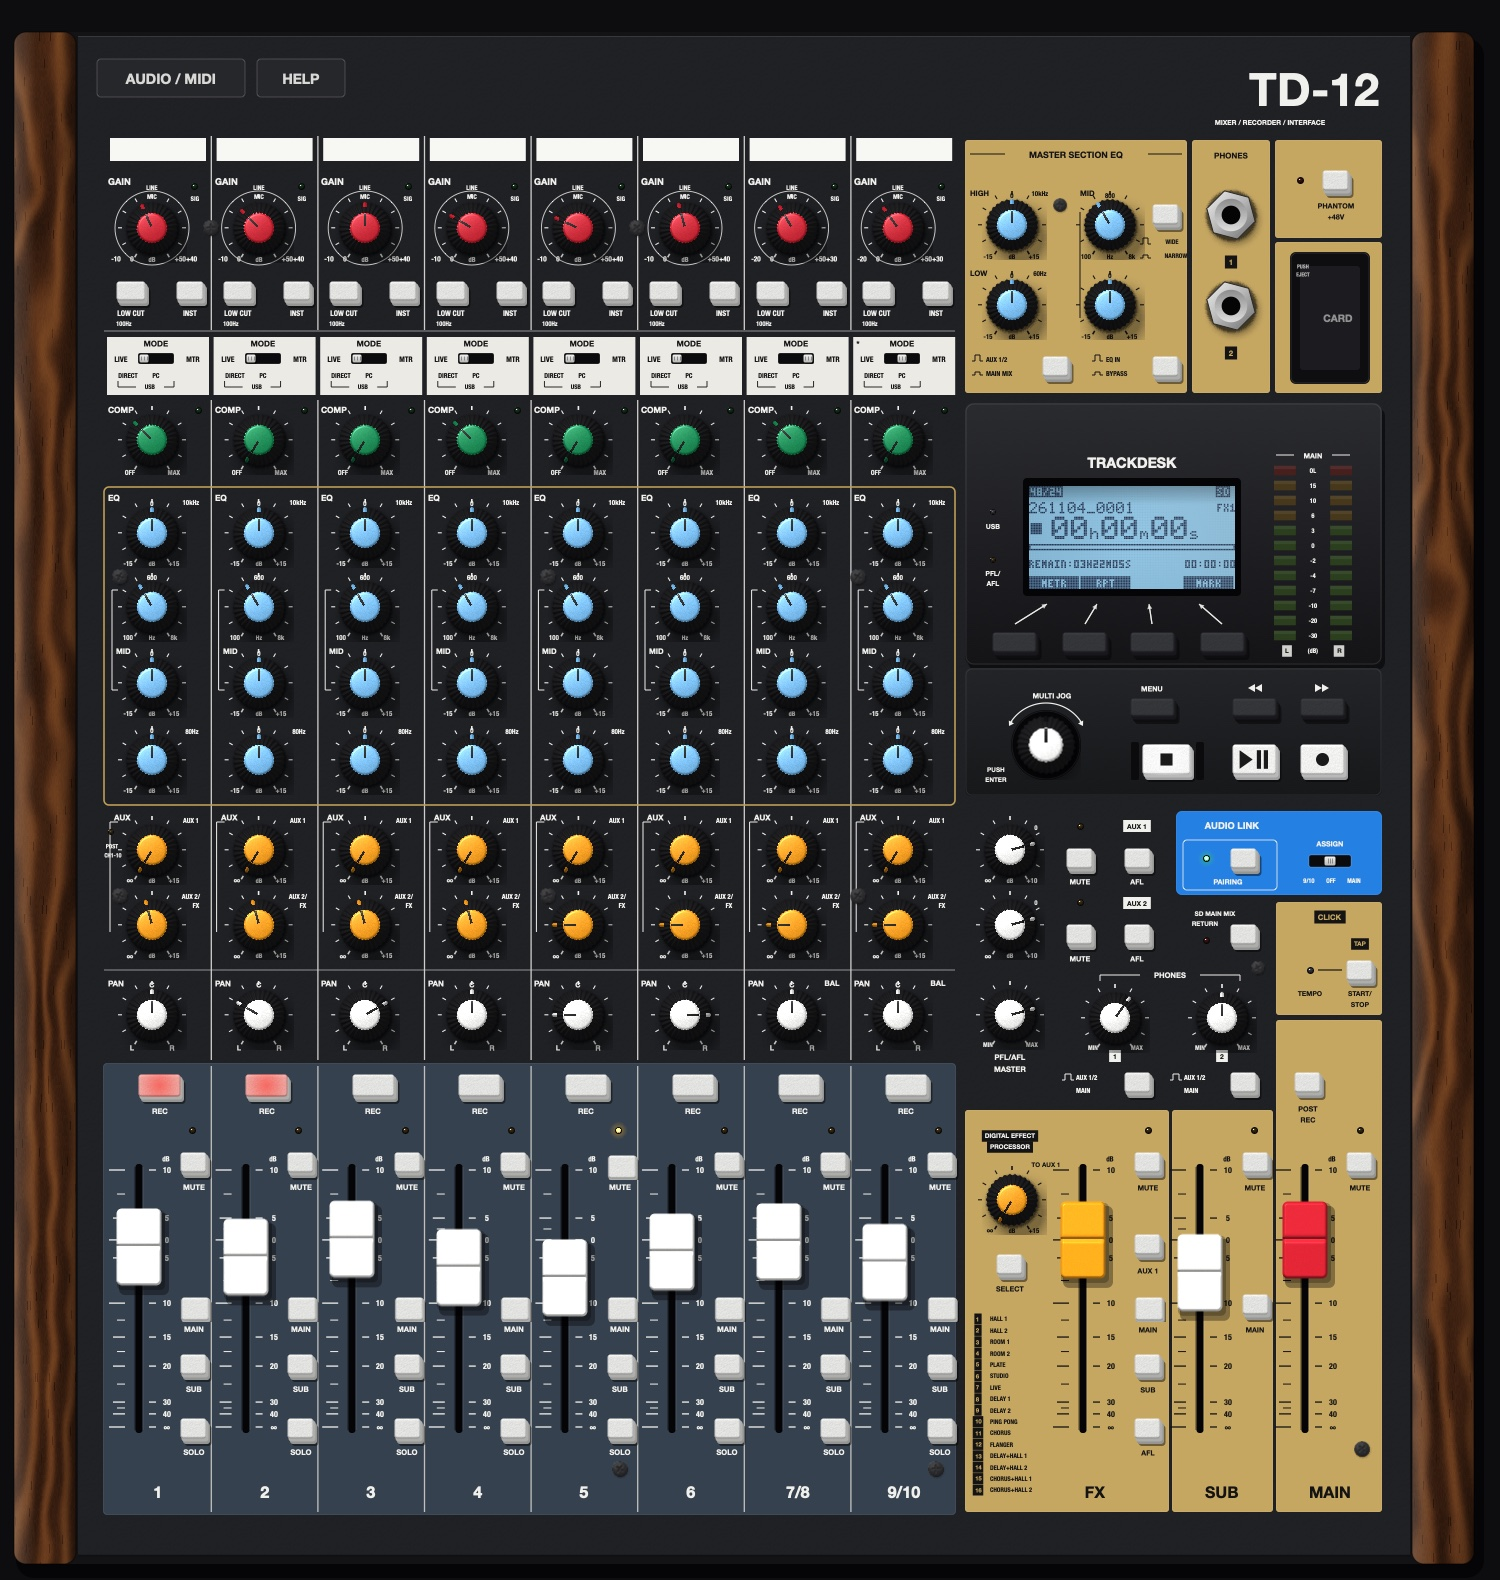
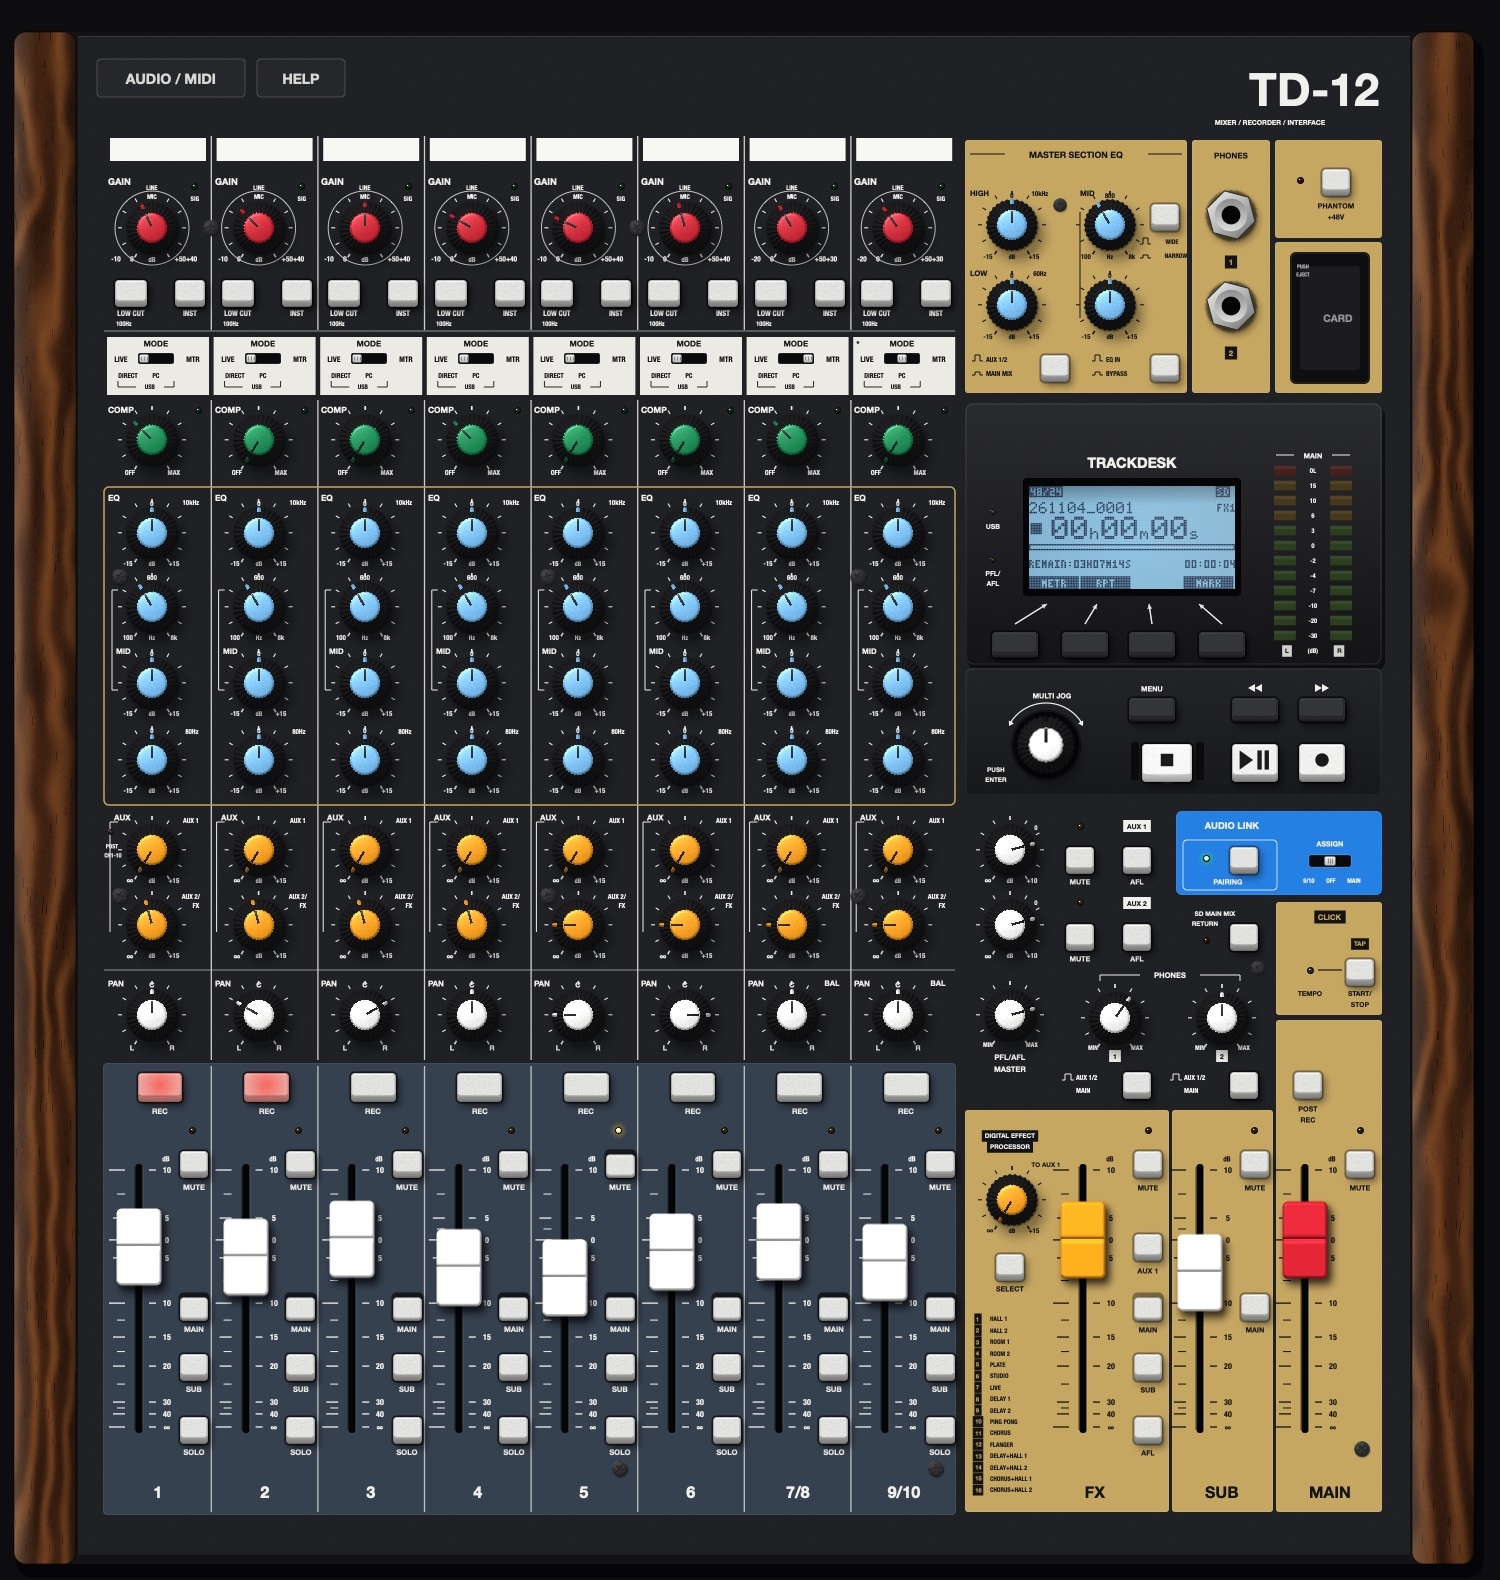
Shadows like the other devices: keys in wells, unclipped knob shadows
- Static shadows (knobs, the MULTI JOG, keys and the wells they stand in) are
  drawn by the panel background, as on Valvebox, so their square bounds no
  longer clip them. Lighter on the gold and blue areas than on black and slate.
- Keys are extrusions: the face on its walls, which show below it, sinking
  when pushed or latched; the hard stacked offsets are gone.
- Fader caps cast a soft shadow down-right, with room in their bounds for it
  (only the slot's column takes the mouse).

diff --git a/src/ui/Widgets.cpp b/src/ui/Widgets.cpp
@@ -1,4 +1,5 @@
 #include "Widgets.h"
+#include "../core/Model.h"
 
 namespace trackdesk::ui
 {
@@ -56,8 +57,7 @@ void Knob::paint (juce::Graphics& g)
 {
     const float v = get ? get() : 0.0f;
     shown = v;
-    const auto f = face();
-    m::roundShadow (g, f.getCentre(), f.getWidth() * 0.5f, f.getWidth() * 0.32f, 0.9f);
+    const auto f = face(); // (its shadow is on the panel)
     const float scale = m::scaleOf (g);
     const int px = juce::roundToInt (f.getWidth() * scale);
     // the angle in steps of a degree: enough to look smooth, few enough to cache
@@ -109,8 +109,14 @@ void Fader::refresh()
 
 float Fader::yFor (float v) const
 {
-    const float top = capH * 0.5f, bottom = (float) getHeight() - capH * 0.5f;
+    const float top = padTop + capH * 0.5f, bottom = (float) getHeight() - padBottom - capH * 0.5f;
     return bottom - (bottom - top) * juce::jlimit (0.0f, 1.0f, v);
+}
+
+bool Fader::hitTest (int x, int)
+{
+    // the bounds leave room for the shadow; only the slot's column takes the mouse
+    return std::abs ((float) x - getWidth() * 0.5f) <= capW * 0.5f + 4.0f;
 }
 
 void Fader::paint (juce::Graphics& g)
@@ -119,7 +125,7 @@ void Fader::paint (juce::Graphics& g)
     shown = v;
     const float cx = getWidth() * 0.5f;
     // the slot: a dark slit with a lit lower lip
-    const float slotTop = capH * 0.5f - 6.0f, slotBottom = (float) getHeight() - capH * 0.5f + 6.0f;
+    const float slotTop = yFor (1.0f) - 6.0f, slotBottom = yFor (0.0f) + 6.0f;
     juce::Rectangle<float> slot (cx - 3.5f, slotTop, 7.0f, slotBottom - slotTop);
     g.setColour (juce::Colour (0xff050506));
     g.fillRoundedRectangle (slot, 3.0f);
@@ -127,13 +133,13 @@ void Fader::paint (juce::Graphics& g)
     g.drawLine (slot.getRight() + 0.5f, slot.getY() + 3, slot.getRight() + 0.5f, slot.getBottom() - 3, 1.0f);
     g.setColour (juce::Colours::black.withAlpha (0.6f));
     g.drawLine (slot.getX() - 0.5f, slot.getY() + 3, slot.getX() - 0.5f, slot.getBottom() - 3, 1.0f);
-    // the cap and its shadow
+    // the cap stands on its lever above the panel: a soft shadow cast down-right, a tight one where it's closest
     const float cy = yFor (v);
     juce::Rectangle<float> capR (cx - capW * 0.5f, cy - capH * 0.5f, capW, capH);
-    g.setColour (juce::Colours::black.withAlpha (0.35f));
-    g.fillRoundedRectangle (capR.translated (5.0f, 7.0f).expanded (2.0f), 6.0f);
-    g.setColour (juce::Colours::black.withAlpha (0.25f));
-    g.fillRoundedRectangle (capR.translated (2.0f, 3.0f).expanded (1.0f), 5.0f);
+    juce::Path foot;
+    foot.addRoundedRectangle (capR.translated (1.5f, 1.0f), 6.0f);
+    juce::DropShadow (juce::Colours::black.withAlpha (0.55f), 12, { 3, 6 }).drawForPath (g, foot);
+    juce::DropShadow (juce::Colours::black.withAlpha (0.35f), 4, { 1, 2 }).drawForPath (g, foot);
     const float scale = m::scaleOf (g);
     const int w = juce::roundToInt (capW * scale), h = juce::roundToInt (capH * scale);
     m::drawAt (g, m::cached ("fadercap" + juce::String (w) + "x" + juce::String (h) + cap.toString(), [&] { return m::faderCap (w, h, cap); }), capR);
@@ -145,7 +151,7 @@ void Fader::mouseDown (const juce::MouseEvent& e)
     const float v = get ? get() : 0.0f;
     if (std::abs ((float) e.y - yFor (v)) > capH * 0.5f && set)
     {
-        const float top = capH * 0.5f, bottom = (float) getHeight() - capH * 0.5f;
+        const float top = yFor (1.0f), bottom = yFor (0.0f);
         set (juce::jlimit (0.0f, 1.0f, (bottom - (float) e.y) / (bottom - top)));
     }
     dragStart = get ? get() : 0.0f;
@@ -154,7 +160,7 @@ void Fader::mouseDown (const juce::MouseEvent& e)
 
 void Fader::mouseDrag (const juce::MouseEvent& e)
 {
-    const float travel = (float) getHeight() - capH;
+    const float travel = yFor (0.0f) - yFor (1.0f);
     const float fine = e.mods.isShiftDown() || e.mods.isAltDown() ? 0.2f : 1.0f;
     if (set)
         set (juce::jlimit (0.0f, 1.0f, dragStart - (float) e.getDistanceFromDragStartY() / travel * fine));
@@ -164,7 +170,7 @@ void Fader::mouseDrag (const juce::MouseEvent& e)
 void Fader::mouseDoubleClick (const juce::MouseEvent&)
 {
     if (set)
-        set (0.75f); // 0 dB
+        set (law::kFaderUnity); // 0 dB
     refresh();
 }
 
@@ -191,39 +197,67 @@ void PushKey::refresh()
     }
 }
 
+juce::Rectangle<int> PushKey::boundsFor (juce::Rectangle<float> face, Style s)
+{
+    auto b = face.expanded (kMargin);
+    b.setBottom (b.getBottom() + extrusionFor (s));
+    return b.getSmallestIntegerContainer();
+}
+
+juce::Rectangle<float> PushKey::faceArea() const
+{
+    auto r = getLocalBounds().toFloat().reduced (kMargin);
+    r.removeFromBottom (extrusion());
+    return r;
+}
+
 void PushKey::paint (juce::Graphics& g)
 {
     shownLatched = latched ? latched() : false;
     shownLamp = lamp ? lamp() : 0;
+    // an extruded cap seen from above at a slight tilt: its face on top, its walls showing below it down to the panel
+    // (the well round it and its shadow are the panel's). Pushed, or latched in, the face sinks down the walls.
+    const auto rest = faceArea();
+    const float depth = extrusion(), corner = faceCorner();
     const bool in = held || shownLatched;
-    auto b = getLocalBounds().toFloat().reduced (2.0f);
-    // an extruded cap: its sides show below and right, and it sinks when pushed (a latched switch stays in)
-    const float depth = in ? 2.0f : 5.0f;
-    auto face = b.withTrimmedRight (depth * 0.6f).withTrimmedBottom (depth);
-    if (in)
-        face = face.translated (depth * 0.4f, 3.0f);
+    const auto face = rest.translated (0.0f, in ? depth * 0.7f : 0.0f);
+    const bool on = shownLamp > 0;
     const juce::Colour body = style == Style::Dark ? juce::Colour (0xff2b2c30) : style == Style::Transport ? juce::Colour (0xffe8e8e6) : juce::Colour (0xffd9d9d6);
-    // shadow on the panel
-    g.setColour (juce::Colours::black.withAlpha (0.45f));
-    g.fillRoundedRectangle (face.translated (depth * 0.6f + 1.5f, depth + 2.0f), 3.5f);
-    // the side walls
-    g.setColour (style == Style::Dark ? juce::Colour (0xff0e0e10) : body.darker (0.45f));
-    g.fillRoundedRectangle (face.translated (depth * 0.6f, depth), 3.0f);
-    g.setColour (style == Style::Dark ? juce::Colour (0xff18181b) : body.darker (0.25f));
-    g.fillRoundedRectangle (face.translated (depth * 0.3f, depth * 0.5f), 3.0f);
+
+    // a lit key throws a little of its light on the panel round its base
+    if (on)
+    {
+        juce::ColourGradient bloom (lampColour.withAlpha (0.30f), rest.getCentreX(), rest.getBottom(), lampColour.withAlpha (0.0f), rest.getCentreX(),
+                                    rest.getBottom() + depth + kMargin, true);
+        g.setGradientFill (bloom);
+        g.fillRoundedRectangle (rest.expanded (kMargin * 0.8f).withBottom (rest.getBottom() + depth + kMargin * 0.8f), corner + 3.0f);
+    }
+
+    // the walls: the face swept down to where the key meets the panel
+    const auto walls = juce::Rectangle<float> (rest.getX(), face.getY(), rest.getWidth(), rest.getBottom() + depth - face.getY());
+    juce::Colour sideTop = style == Style::Dark ? juce::Colour (0xff3f4045) : body.darker (0.28f);
+    juce::Colour sideBottom = style == Style::Dark ? juce::Colour (0xff141416) : body.darker (0.85f);
+    if (on)
+    {
+        sideTop = sideTop.interpolatedWith (lampColour, 0.35f);
+        sideBottom = sideBottom.interpolatedWith (lampColour, 0.25f);
+    }
+    g.setGradientFill (juce::ColourGradient (sideTop, 0.0f, face.getBottom() - corner, sideBottom, 0.0f, walls.getBottom(), false));
+    g.fillRoundedRectangle (walls, corner);
+    g.setColour (juce::Colours::black.withAlpha (0.25f));
+    g.drawRoundedRectangle (walls.reduced (0.25f), corner, 0.6f);
+
     // the face
     const float scale = m::scaleOf (g);
     const int w = juce::roundToInt (face.getWidth() * scale), h = juce::roundToInt (face.getHeight() * scale);
-    juce::Colour top = body;
-    if (shownLamp > 0)
-        top = body.interpolatedWith (lampColour, 0.25f);
-    m::drawAt (g, m::cached ("key" + juce::String (w) + "x" + juce::String (h) + top.toString(), [&] { return m::keyFace (w, h, 3.0f * scale, 2.0f * scale, top); }), face);
-    if (shownLamp > 0)
+    const juce::Colour top = on ? body.interpolatedWith (lampColour, 0.25f) : body;
+    m::drawAt (g, m::cached ("key" + juce::String (w) + "x" + juce::String (h) + top.toString(), [&] { return m::keyFace (w, h, corner * scale, 1.6f * scale, top); }), face);
+    if (on)
     {
         // the lamp behind the translucent cap
         juce::ColourGradient glow (lampColour.withAlpha (0.55f), face.getCentre(), lampColour.withAlpha (0.0f), face.getCentre().translated (face.getWidth() * 0.6f, 0), true);
         g.setGradientFill (glow);
-        g.fillRoundedRectangle (face, 3.0f);
+        g.fillRoundedRectangle (face, corner);
     }
     if (glyph.isNotEmpty())
     {
@@ -242,15 +276,6 @@ void PushKey::paint (juce::Graphics& g)
         }
         else if (glyph == "rec")
             p.addEllipse (juce::Rectangle<float> (s * 1.4f, s * 1.4f).withCentre (c));
-        else if (glyph == "rew" || glyph == "ff")
-        {
-            const float d = glyph == "ff" ? 1.0f : -1.0f;
-            for (int i = 0; i < 2; ++i)
-            {
-                const float x0 = c.x + d * (i == 0 ? -s * 0.9f : 0.0f);
-                p.addTriangle (x0, c.y - s * 0.6f, x0, c.y + s * 0.6f, x0 + d * s * 0.9f, c.y);
-            }
-        }
         g.fillPath (p);
     }
 }
@@ -456,17 +481,16 @@ void MeterView::paint (juce::Graphics& g)
 
 // ======================================================================== JogDial
 
-void JogDial::paint (juce::Graphics& g)
+juce::Rectangle<float> JogDial::knobArea() const
 {
     const float d = std::min ((float) getWidth(), (float) getHeight());
-    auto outer = juce::Rectangle<float> (d, d).withCentre (getLocalBounds().toFloat().getCentre());
-    // the recess, then the knob (a white cap on a ribbed skirt) that turns with angle
-    g.setColour (juce::Colour (0xff060607));
-    g.fillEllipse (outer);
-    g.setColour (juce::Colours::white.withAlpha (0.08f));
-    g.drawEllipse (outer.reduced (1.0f), 1.0f);
-    const auto f = outer.reduced (d * 0.08f).translated (pressed ? 1.0f : 0.0f, pressed ? 1.5f : 0.0f);
-    m::roundShadow (g, f.getCentre(), f.getWidth() * 0.5f, f.getWidth() * 0.18f, 0.7f);
+    return juce::Rectangle<float> (d, d).withCentre (getLocalBounds().toFloat().getCentre()).reduced (d * 0.08f);
+}
+
+void JogDial::paint (juce::Graphics& g)
+{
+    // the knob (a white cap on a ribbed skirt) that turns with the angle; it dips a little when pushed
+    const auto f = knobArea().translated (pressed ? 1.0f : 0.0f, pressed ? 1.5f : 0.0f);
     const float scale = m::scaleOf (g);
     const int px = juce::roundToInt (f.getWidth() * scale);
     const int step = ((int) std::lround (angle / juce::MathConstants<float>::twoPi * 72.0f) % 72 + 72) % 72;

diff --git a/src/ui/Panel.cpp b/src/ui/Panel.cpp
@@ -155,7 +155,7 @@ Knob& Panel::addKnob (P c, float d, juce::Colour cap, float dflt, std::function<
 PushKey& Panel::addKey (P c, P size, PushKey::Style style, const juce::String& glyph)
 {
     auto k = std::make_unique<PushKey> (style, glyph);
-    k->setBounds (R (size.x + 6.0f, size.y + 8.0f).withCentre (c.translated (1.5f, 2.5f)).toNearestInt());
+    k->setBounds (PushKey::boundsFor (R (size.x, size.y).withCentre (c), style)); // (the face at rest centred on c)
     auto* raw = k.get();
     keys.push_back (raw);
     addAndMakeVisible (*k);
@@ -180,7 +180,9 @@ Fader& Panel::addFader (float x, juce::Colour cap, std::function<float()> get, s
     auto f = std::make_unique<Fader> (cap);
     f->get = std::move (get);
     f->set = std::move (set);
-    f->setBounds (R (x - 30.0f, kFaderTop - f->capH * 0.5f, 60.0f, kFaderBottom - kFaderTop + f->capH).toNearestInt());
+    f->setBounds (R (x - Fader::halfWidth, kFaderTop - Fader::capH * 0.5f - Fader::padTop, Fader::halfWidth * 2.0f,
+                     kFaderBottom - kFaderTop + Fader::capH + Fader::padTop + Fader::padBottom)
+                      .toNearestInt());
     auto* raw = f.get();
     faders.push_back (raw);
     addAndMakeVisible (*f);
@@ -1164,6 +1166,47 @@ void Panel::paintBackground (juce::Graphics& g)
         g.setFont (panelFont (54.0f));
         g.drawText ("TD-12", R (1090.0f, 58.0f, 290.0f, 60.0f), J::centredRight);
         text (g, "MIXER / RECORDER / INTERFACE", 1270.0f, 122.0f, 8.0f, kPrint, false, 220.0f);
+    }
+
+    // ---------------------------------------------------------------- what stands on the panel casts shadows
+    // (static, so drawn here as on the other devices: nothing clips them, and the widgets only draw what moves)
+    auto onLight = [] (P p) {
+        // the gold, blue and white areas take a lighter shadow than the black and slate ones
+        for (R r : { R (965.0f, 140.0f, 417.0f, 253.0f), R (1176.0f, 811.0f, 206.0f, 84.0f), R (1276.0f, 902.0f, 106.0f, 610.0f),
+                     R (965.0f, 1110.0f, 308.0f, 402.0f) })
+            if (r.contains (p))
+                return true;
+        return false;
+    };
+    if (jog != nullptr)
+    {
+        // the MULTI JOG's recess, and the knob's shadow in it
+        const auto k = jog->knobArea() + jog->getPosition().toFloat();
+        const auto recess = k.expanded (k.getWidth() * 0.08f / 0.84f);
+        g.setColour (juce::Colour (0xff060607));
+        g.fillEllipse (recess);
+        g.setColour (juce::Colours::white.withAlpha (0.08f));
+        g.drawEllipse (recess.reduced (1.0f), 1.0f);
+        m::roundShadow (g, k.getCentre(), k.getWidth() * 0.48f, k.getWidth() * 0.2f, 0.8f);
+    }
+    for (auto* k : knobs)
+    {
+        // the knobs stand tall on the panel: a soft shadow falling down-right from the top-left light
+        const auto f = k->face() + k->getPosition().toFloat();
+        m::roundShadow (g, f.getCentre(), f.getWidth() * 0.48f, f.getWidth() * 0.24f, onLight (f.getCentre()) ? 0.75f : 0.9f);
+    }
+    for (auto* k : keys)
+    {
+        // every key stands in a well, its shadow falling down-right
+        const auto f = k->faceArea() + k->getPosition().toFloat();
+        const float corner = k->faceCorner(), depth = k->extrusion();
+        const bool light = onLight (f.getCentre());
+        const auto base = f.withBottom (f.getBottom() + depth); // its footprint, seen from above at a slight tilt
+        juce::Path p;
+        p.addRoundedRectangle (base.translated (1.5f, 1.0f), corner);
+        juce::DropShadow (juce::Colours::black.withAlpha (light ? 0.40f : 0.55f), (int) (depth + 4.0f), { 2, 3 }).drawForPath (g, p);
+        g.setColour (juce::Colours::black.withAlpha (light ? 0.35f : 0.6f)); // the gap round it in the panel
+        g.fillRoundedRectangle (base.expanded (1.6f), corner + 1.6f);
     }
 }
 } // namespace trackdesk::ui

diff --git a/src/ui/Widgets.h b/src/ui/Widgets.h
@@ -3,6 +3,10 @@
 // The panel's parts: knobs, faders, push switches, LEDs, slide switches, the display, the level meter and the
 // MULTI JOG dial. Each reads and writes the console through small functions, and repaints when what it shows
 // changes (refresh() is called by the panel's timer).
+//
+// As on the other devices, shadows that don't move (knobs, keys and their wells, the dial) are drawn by the panel's
+// background from knob faces and key footprints, so nothing clips them; the widgets draw only what moves or lights.
+// A fader's cap moves, so it draws its own soft shadow, with room for it in its bounds.
 
 #include "../core/Lcd.h"
 #include "Materials.h"
@@ -46,9 +50,12 @@ public:
     std::function<void (float)> set;
     void refresh();
     juce::Colour cap;
-    float capW = 46.0f, capH = 78.0f;
+    static constexpr float capW = 46.0f, capH = 78.0f;
+    /** Room round the travel for the cap's shadow (it falls down and to the right). */
+    static constexpr float padTop = 8.0f, padBottom = 16.0f, halfWidth = 44.0f;
 
     void paint (juce::Graphics&) override;
+    bool hitTest (int x, int y) override;
     void mouseDown (const juce::MouseEvent&) override;
     void mouseDrag (const juce::MouseEvent&) override;
     void mouseDoubleClick (const juce::MouseEvent&) override;
@@ -80,6 +87,15 @@ public:
     Style style;
     juce::String glyph;
     juce::Colour lampColour { 0xffff3b30 };
+
+    /** An extruded key: the face on top of its walls, which show below it (seen from above at a slight tilt). */
+    static constexpr float kMargin = 3.0f;
+    static float extrusionFor (Style s) { return s == Style::Transport ? 6.0f : s == Style::Dark ? 4.0f : 5.0f; }
+    /** The bounds for a key whose face (at rest) is `face`. */
+    static juce::Rectangle<int> boundsFor (juce::Rectangle<float> face, Style s);
+    float extrusion() const { return extrusionFor (style); }
+    juce::Rectangle<float> faceArea() const;
+    float faceCorner() const { return 3.5f; }
 
     void paint (juce::Graphics&) override;
     void mouseDown (const juce::MouseEvent&) override;
@@ -156,6 +172,8 @@ class JogDial : public juce::Component
 public:
     std::function<void (int)> turn;
     std::function<void()> push, unpush;
+    /** The knob within the dial's recess (the recess and the knob's shadow are the panel's). */
+    juce::Rectangle<float> knobArea() const;
     void paint (juce::Graphics&) override;
     void mouseDown (const juce::MouseEvent&) override;
     void mouseDrag (const juce::MouseEvent&) override;
